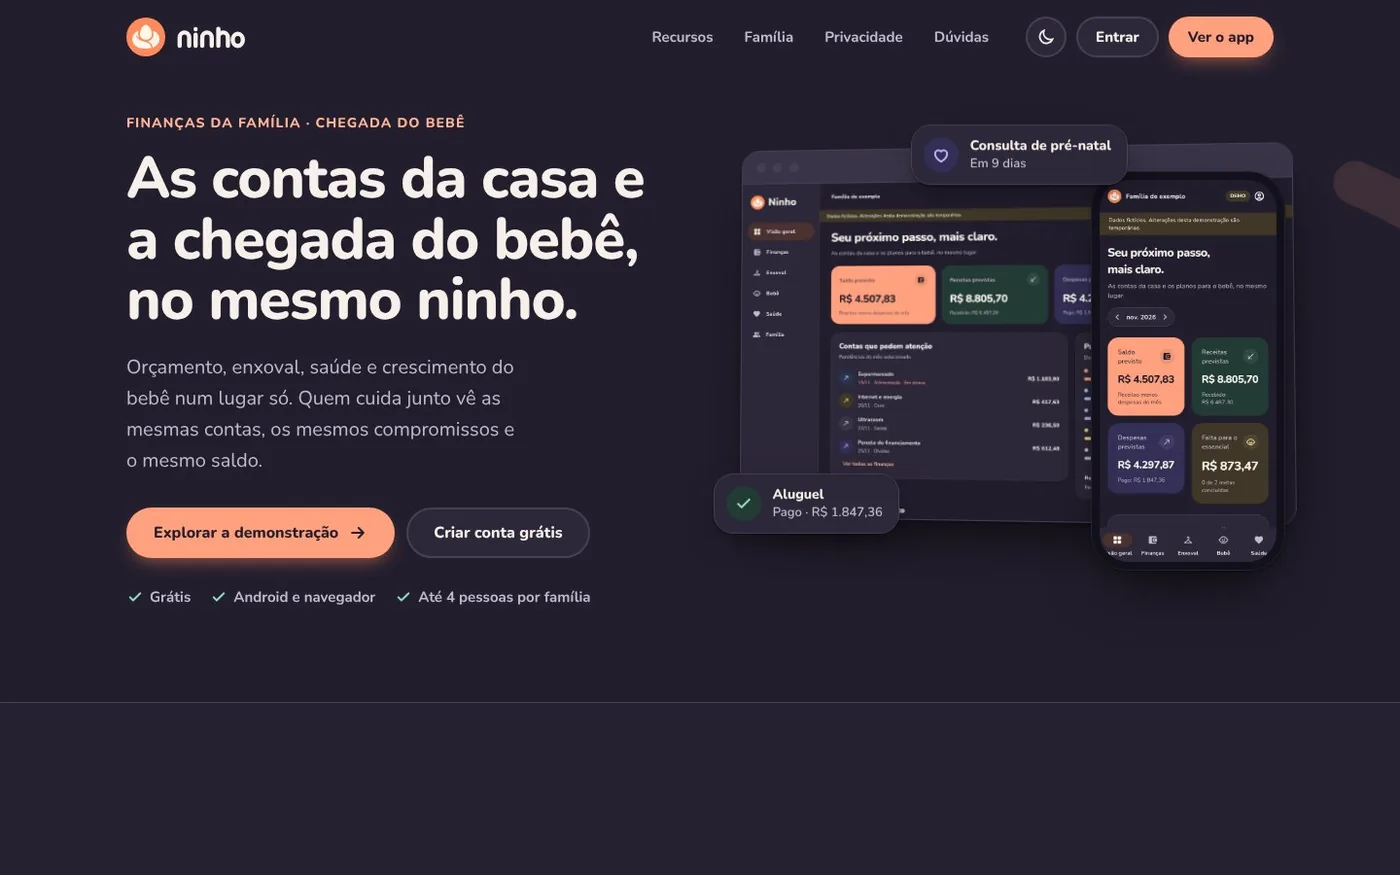
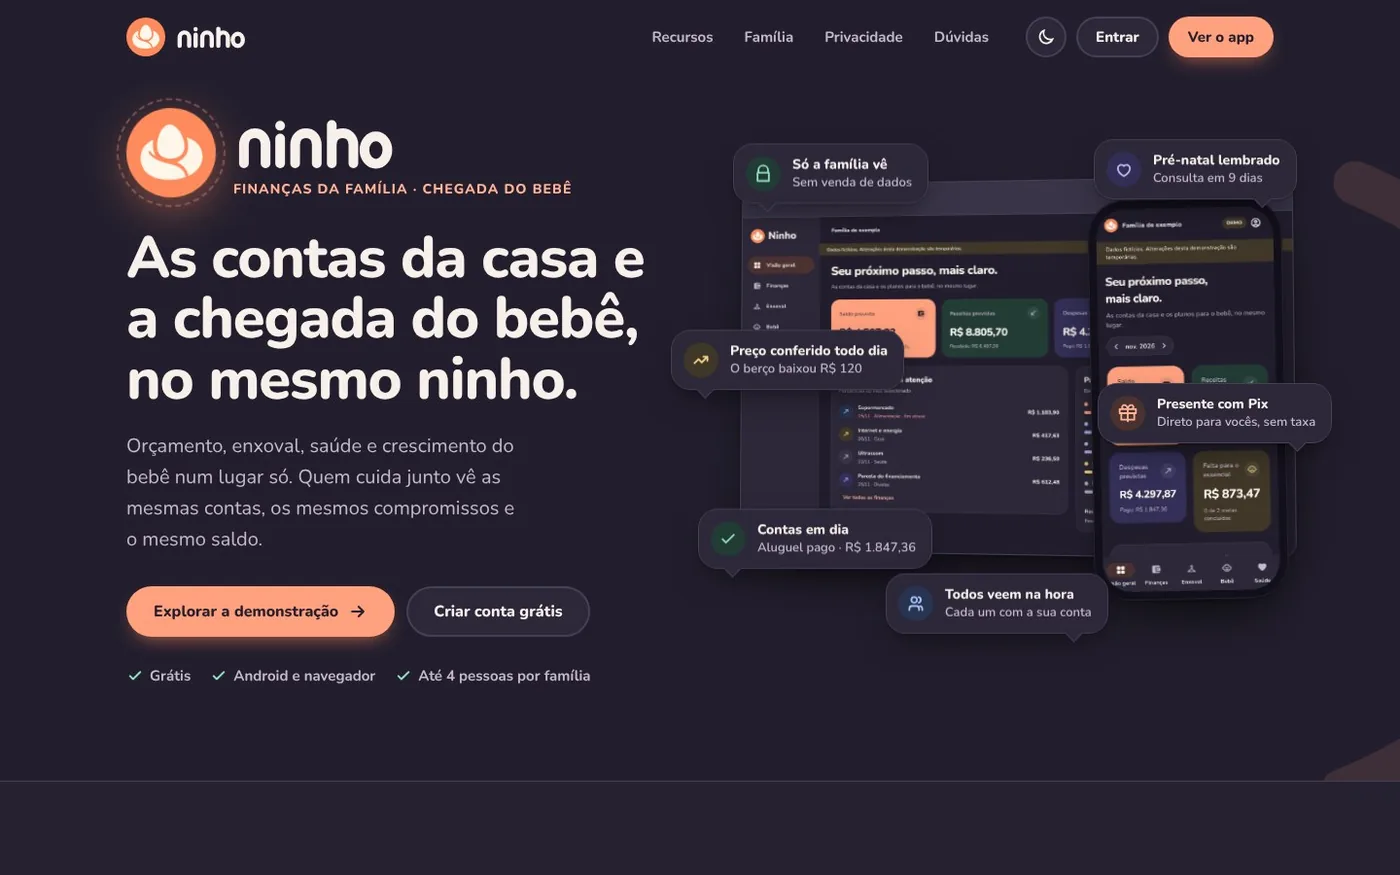
feat(portfolio): new Ninho landing hero in the case study

diff --git a/src/data/captions.ts b/src/data/captions.ts
@@ -61,10 +61,10 @@ const captions: Record<string, Record<string, Line>> = {
     "05-enxoval": ["Layette goals with what is still missing", "Metas do enxoval com o que ainda falta", "Metas del ajuar con lo que aún falta", "Ziele für die Erstausstattung mit dem, was noch fehlt", "出産準備品の目標と不足分", "출산 준비물 목표와 남은 금액", "婴儿用品目标与尚缺部分"],
     "06-saude": ["Health appointments", "Compromissos de saúde", "Citas de salud", "Gesundheitstermine", "健康の予定", "건강 일정", "健康预约"],
     "07-escuro": ["The web app in the dark theme", "O app web no tema escuro", "La app web en tema oscuro", "Die Web-App im dunklen Theme", "ダークテーマのウェブアプリ", "다크 테마의 웹 앱", "深色主题的 Web 应用"],
-    "08-m-visao-geral": ["Android app: overview", "App Android: visão geral", "App Android: resumen", "Android-App: Übersicht", "Androidアプリ：概要", "Android 앱: 개요", "Android 应用：概览"],
-    "09-m-financas": ["Android app: finances", "App Android: finanças", "App Android: finanzas", "Android-App: Finanzen", "Androidアプリ：家計", "Android 앱: 재정", "Android 应用：财务"],
-    "10-m-bebe": ["Android app: the baby's growth", "App Android: o crescimento do bebê", "App Android: el crecimiento del bebé", "Android-App: das Wachstum des Babys", "Androidアプリ：赤ちゃんの成長", "Android 앱: 아기의 성장", "Android 应用：宝宝的成长"],
-    "11-m-escuro": ["Android app in the dark theme", "App Android no tema escuro", "App Android en tema oscuro", "Android-App im dunklen Theme", "ダークテーマのAndroidアプリ", "다크 테마의 Android 앱", "深色主题的 Android 应用"],
+    "08-m-landing": ["The landing page on a phone", "A landing page no celular", "La landing page en el móvil", "Die Landingpage auf dem Smartphone", "スマートフォンのランディングページ", "휴대폰에서 보는 랜딩 페이지", "手机上的落地页"],
+    "09-m-visao-geral": ["Android app: overview", "App Android: visão geral", "App Android: resumen", "Android-App: Übersicht", "Androidアプリ：概要", "Android 앱: 개요", "Android 应用：概览"],
+    "10-m-financas": ["Android app: finances", "App Android: finanças", "App Android: finanzas", "Android-App: Finanzen", "Androidアプリ：家計", "Android 앱: 재정", "Android 应用：财务"],
+    "11-m-bebe": ["Android app: the baby's growth", "App Android: o crescimento do bebê", "App Android: el crecimiento del bebé", "Android-App: das Wachstum des Babys", "Androidアプリ：赤ちゃんの成長", "Android 앱: 아기의 성장", "Android 应用：宝宝的成长"],
   },
   cutucanois: {
     loop: ["A mood animation playing", "Uma animação de humor", "Una animación de humor", "Eine Stimmungsanimation", "気分アニメーション", "기분 애니메이션", "心情动画"],

diff --git a/src/data/caseStudy.ts b/src/data/caseStudy.ts
@@ -56,7 +56,7 @@ export const caseThemes: Record<string, CaseTheme> = {
     palette: ["#ff8a5c", "#fff2ea", "#3a3248", "#f5efd7", "#d7b7b1"],
     fonts: [{ family: "Nunito", weight: 800, role: "display" }, { family: "Nunito", weight: 400, role: "ui" }],
     load: "Nunito:wght@400;800",
-    heroA: "01-landing", heroB: "08-m-visao-geral", stageShot: "03-visao-geral",
+    heroA: "01-landing", heroB: "09-m-visao-geral", stageShot: "03-visao-geral",
   },
   soluna: {
     bg: "#15171a", fg: "#ece4d2", muted: "#9a9389", accent: "#e0b45a", accentText: "#e0b45a", onAccent: "#15171a", chrome: "#24272b", card: "#1f2226",
